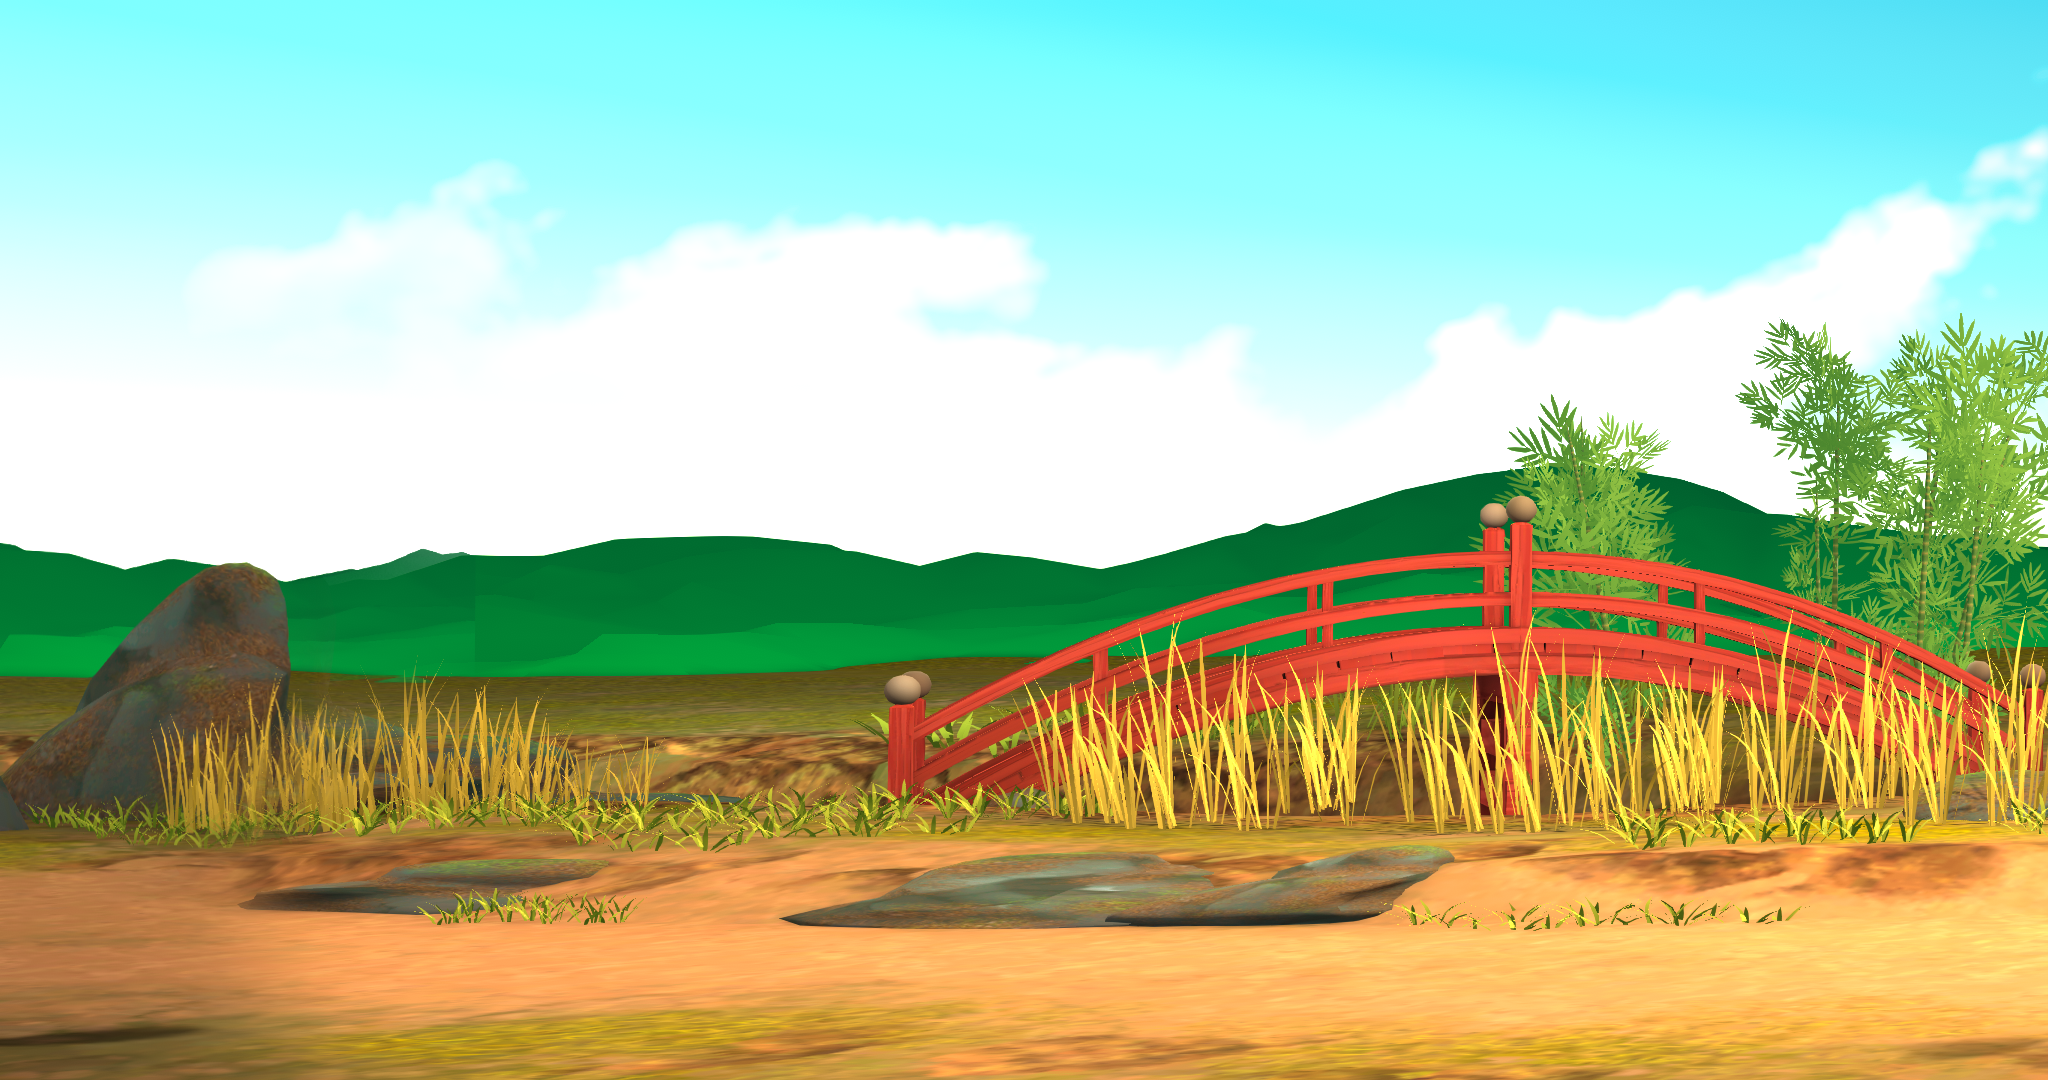
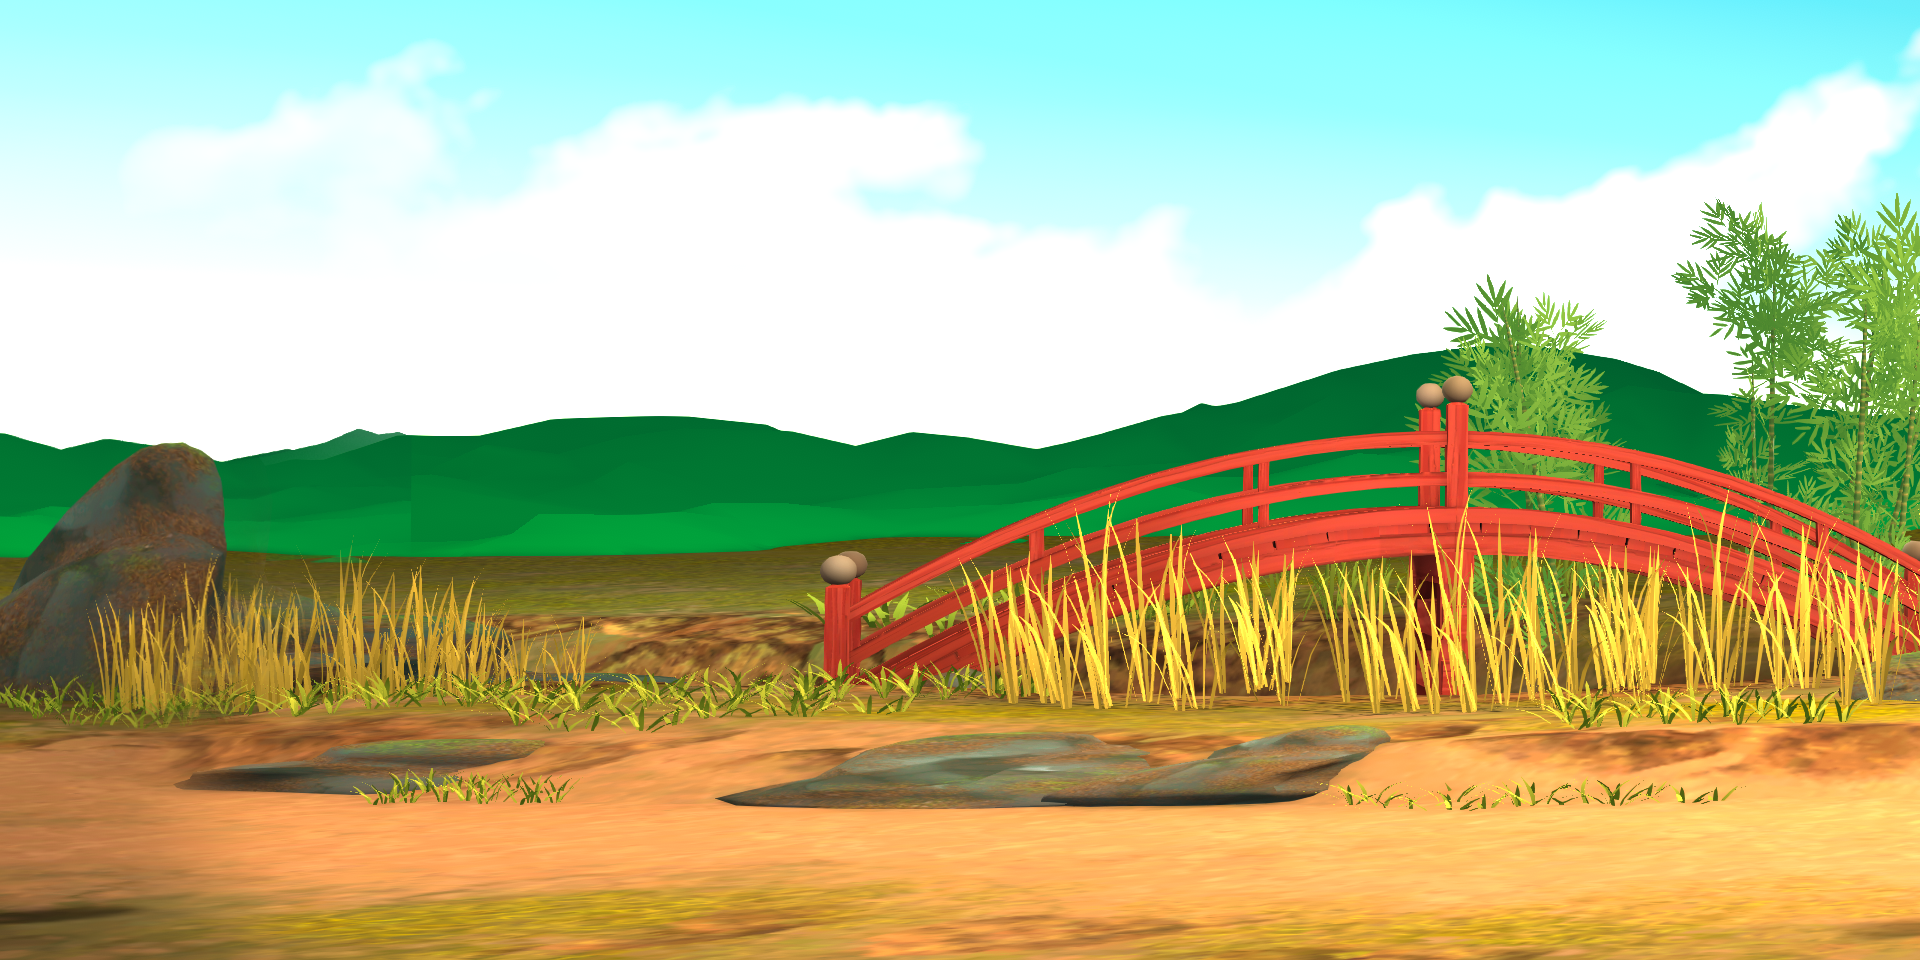
bg

diff --git a/KenGeki_020/Source/FtgMain/Fighting/BG.cpp b/KenGeki_020/Source/FtgMain/Fighting/BG.cpp
@@ -181,8 +181,7 @@ namespace GAME
 		break;
 
 		case STAGE_YUUHINO_HARA:
-//			m_bg_C->AddTexture_FromArchive ( U"BG\\BG_evening_C.png" );
-			m_bg_C->AddTexture_FromArchive ( U"BG\\bg_school.png" );
+			m_bg_C->AddTexture_FromArchive ( U"BG\\BG_evening_C.png" );
 			m_bg_L->AddTexture_FromArchive ( U"BG\\BG_evening_L.png" );
 			m_bg_R->AddTexture_FromArchive ( U"BG\\BG_evening_R.png" );
 		break;
@@ -192,6 +191,13 @@ namespace GAME
 			m_bg_L->AddTexture_FromArchive ( U"BG\\BG_night_L.png" );
 			m_bg_R->AddTexture_FromArchive ( U"BG\\BG_night_R.png" );
 		break;
+
+		case STAGE_SCHOOL_NOON:
+			m_bg_C->AddTexture_FromArchive ( U"BG\\BG_school.png" );
+			m_bg_L->AddTexture_FromArchive ( U"BG\\BG_evening_L.png" );
+			m_bg_R->AddTexture_FromArchive ( U"BG\\BG_evening_R.png" );
+		break;
+
 		}
 	}
 

diff --git a/KenGeki_020/Source/CharaSele/CharaSele.cpp b/KenGeki_020/Source/CharaSele/CharaSele.cpp
@@ -198,6 +198,7 @@ namespace GAME
 		m_stageSelect->AddTexture_FromArchive ( U"CharaSele\\BG_Preview_Noon.png" );
 		m_stageSelect->AddTexture_FromArchive ( U"CharaSele\\BG_Preview_Evening.png" );
 		m_stageSelect->AddTexture_FromArchive ( U"CharaSele\\BG_Preview_Night.png" );
+		m_stageSelect->AddTexture_FromArchive ( U"CharaSele\\BG_Preview_School.png" );
 		m_stageSelect->SetPos ( VEC2 ( STG_X, STG_Y ) );
 		m_stageSelect->SetZ ( Z_EFF );
 		AddpTask ( m_stageSelect );
@@ -602,6 +603,7 @@ namespace GAME
 		case 0: ret = STAGE_ASAHINO_HARA; break;
 		case 1: ret = STAGE_YUUHINO_HARA; break;
 		case 2: ret = STAGE_YORUNO_HARA; break;
+		case 3: ret = STAGE_SCHOOL_NOON; break;
 		}
 
 		return ret;

diff --git a/KenGeki_020/Source/GameMain/GameConst.h b/KenGeki_020/Source/GameMain/GameConst.h
@@ -50,6 +50,7 @@ namespace GAME
 		STAGE_ASAHINO_HARA,
 		STAGE_YUUHINO_HARA,
 		STAGE_YORUNO_HARA,
+		STAGE_SCHOOL_NOON,
 	};
 
 }
